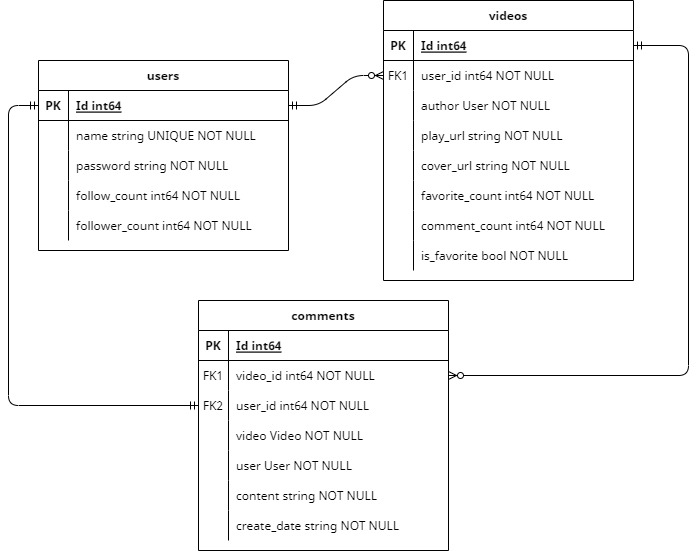
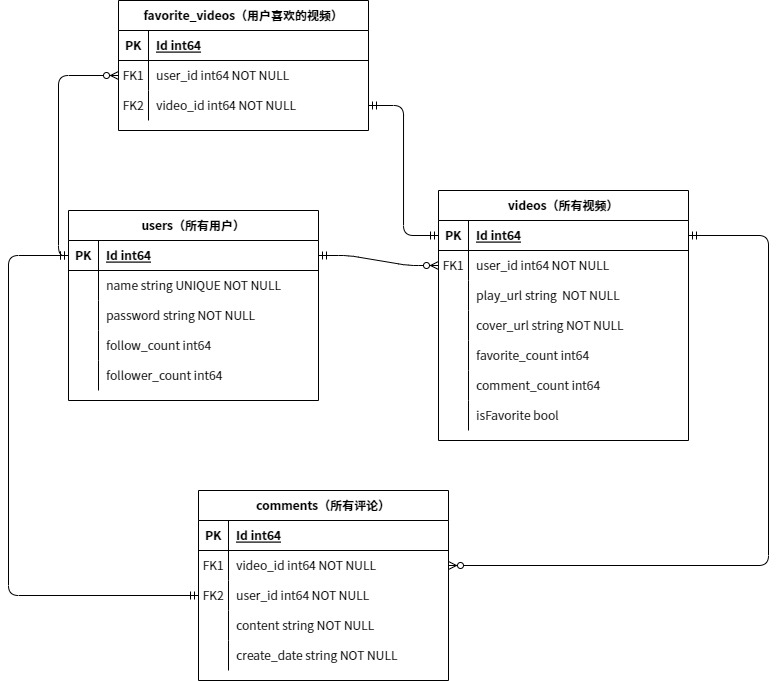
重新设置数据库；正在完善publish功能

diff --git a/controller/publish.go b/controller/publish.go
@@ -1,8 +1,13 @@
 package controller
 
 import (
+	"fmt"
 	"github.com/gin-gonic/gin"
+	"log"
 	"net/http"
+	"os/exec"
+	"path/filepath"
+	"strconv"
 )
 
 type VideoListResponse struct {
@@ -10,48 +15,78 @@ type VideoListResponse struct {
 	VideoList []Video `json:"video_list"`
 }
 
-// Publish check token then save upload file to public directory
+// Publish 前端传入视频、token
 func Publish(c *gin.Context) {
-	//token := c.PostForm("token")
-	//
-	//if _, exist := usersLoginInfo[token]; !exist {
-	//	c.JSON(http.StatusOK, Response{StatusCode: 1, StatusMsg: "User doesn't exist"})
-	//	return
-	//}
-	//
-	//data, err := c.FormFile("data")
-	//if err != nil {
-	//	c.JSON(http.StatusOK, Response{
-	//		StatusCode: 1,
-	//		StatusMsg:  err.Error(),
-	//	})
-	//	return
-	//}
-	//
-	//filename := filepath.Base(data.Filename)
-	//user := usersLoginInfo[token]
-	//finalName := fmt.Sprintf("%d_%s", user.Id, filename)
-	//saveFile := filepath.Join("./public/", finalName)
-	//if err := c.SaveUploadedFile(data, saveFile); err != nil {
-	//	c.JSON(http.StatusOK, Response{
-	//		StatusCode: 1,
-	//		StatusMsg:  err.Error(),
-	//	})
-	//	return
-	//}
-	//
-	//c.JSON(http.StatusOK, Response{
-	//	StatusCode: 0,
-	//	StatusMsg:  finalName + " uploaded successfully",
-	//})
+	username := c.PostForm("token") // 这里的 Token 是用户名
+	// demo 里检查了用户是否存在，个人感觉没必要
+
+	// 读取视频
+	data, err := c.FormFile("data")
+	if err != nil {
+		c.JSON(http.StatusOK, Response{
+			StatusCode: 1,
+			StatusMsg:  err.Error(),
+		})
+		return
+	}
+	filename := filepath.Base(data.Filename)
+
+	var user User // 根据用户名查找用户
+	DB.Where("name=?", username).First(&user)
+	// 因为存储的文件名需要包含 videoId，所以先保存到数据库，利用 Id 自增特性获取 videoId
+	// 相关信息存入数据库
+	playUrl := ServerAddr + "/static/videos/"
+	coverUrl := ServerAddr + "/static/covers/"
+	video := Video{
+		Author:   user,
+		UserId:   user.Id,
+		PlayUrl:  playUrl,
+		CoverUrl: coverUrl,
+	}
+	DB.Create(&video)
+	finalName := fmt.Sprintf("%d_%d_%s", user.Id, video.Id, filename) // 保存的文件名，为防止文件名冲突，增加一项 videoId
+	saveFile := filepath.Join("./public/videos/", finalName)
+	// 将视频存入本地
+	if err := c.SaveUploadedFile(data, saveFile); err != nil {
+		c.JSON(http.StatusOK, Response{
+			StatusCode: 1,
+			StatusMsg:  err.Error(),
+		})
+		return
+	}
+	c.JSON(http.StatusOK, Response{
+		StatusCode: 0,
+		StatusMsg:  finalName + " uploaded successfully",
+	})
+	// 调用 ffmpeg 获取封面（第一帧老是黑屏，所以这里获取第 300 帧）
+	// 当然更好的实践是先读取总共有多少帧，再获取中间的某一帧，这里为了简便实现就先这样了
+	cmd := exec.Command(
+		"ffmpeg", "-i", "./public/videos/"+finalName,
+		"-vf", "select=eq(n\\, 300)", "-frames", "1",
+		"./public/covers/"+finalName+".jpg",
+	)
+	//cmd.Stderr = os.Stderr // 输出错误信息
+	if err := cmd.Run(); err != nil {
+		log.Fatalln("Video cover generation failed")
+	}
+	// 更新数据库中的视频和封面链接
+	video.PlayUrl += finalName
+	video.CoverUrl += finalName + ".jpg"
+	DB.Save(&video)
+
 }
 
-// PublishList all users have same publish video list
+// PublishList 显示当前用户投稿的所有视频，目前的实现方式是直接从所有视频的表里根据 user_id 选取
+// 效率可能较低？
 func PublishList(c *gin.Context) {
+	userIdStr := c.Query("user_id")
+	userId, _ := strconv.ParseInt(userIdStr, 10, 64)
+	var videoList []Video
+	DB.Where("user_id=?", userId).Find(&videoList)
 	c.JSON(http.StatusOK, VideoListResponse{
 		Response: Response{
 			StatusCode: 0,
 		},
-		VideoList: DemoVideos,
+		VideoList: videoList,
 	})
 }

diff --git a/controller/user.go b/controller/user.go
@@ -6,7 +6,6 @@ import (
 	"golang.org/x/crypto/bcrypt"
 	"net/http"
 	"strconv"
-	"sync/atomic"
 )
 
 //// usersLoginInfo use map to store user info, and key is username+password for demo
@@ -46,23 +45,21 @@ func Register(c *gin.Context) {
 
 	passwordHash, _ := BCryptPassword(password) // 对密码加密，不保存明文
 	// 根据用户名的唯一性，查找是否存在该用户，如果不存在则将用户信息存入数据库中
-	findUser := User{Name: username}
-	if rowsAffected := DB.Where("name = ?", username).First(&findUser).RowsAffected; rowsAffected != 0 {
+	var user User
+	if rowsAffected := DB.Where("name = ?", username).First(&user).RowsAffected; rowsAffected != 0 {
 		c.JSON(http.StatusOK, UserLoginResponse{
 			Response: Response{StatusCode: 1, StatusMsg: "User already exists"},
 		})
 	} else {
-		atomic.AddInt64(&userIdSequence, 1)
 		newUser := User{
-			Id:       userIdSequence,
 			Name:     username,
 			Password: passwordHash,
 		}
 		DB.Create(&newUser) // 存入数据库
 		c.JSON(http.StatusOK, UserLoginResponse{
 			Response: Response{StatusCode: 0},
-			UserId:   userIdSequence,
-			//Token:    username + passwordHash, // Token 没啥用
+			UserId:   newUser.Id,
+			Token:    username, // 由于各个接口都依靠 Token 确定用户身份，因此返回用户名
 		})
 	}
 }
@@ -72,9 +69,9 @@ func Login(c *gin.Context) {
 	password := c.Query("password")
 
 	// 查找数据库中对应的用户名，并检查密码
-	findUser := User{Name: username}
-	if rowsAffected := DB.Where("name = ?", username).First(&findUser).RowsAffected; rowsAffected != 0 {
-		passwordHashByte := []byte(findUser.Password)
+	var user User
+	if rowsAffected := DB.Where("name = ?", username).First(&user).RowsAffected; rowsAffected != 0 {
+		passwordHashByte := []byte(user.Password)
 		passwordByte := []byte(password)
 		// 检查密码是否正确，使用 BCrypt 内置的比较函数
 		if err := bcrypt.CompareHashAndPassword(passwordHashByte, passwordByte); errors.Is(err, bcrypt.ErrMismatchedHashAndPassword) {
@@ -85,8 +82,8 @@ func Login(c *gin.Context) {
 		} else { // 密码正确
 			c.JSON(http.StatusOK, UserLoginResponse{
 				Response: Response{StatusCode: 0},
-				UserId:   findUser.Id,
-				//Token:    username + findUser.Password, // Token 没啥用
+				UserId:   user.Id,
+				Token:    user.Name, // 由于各个接口都依靠 Token 确定用户身份，因此返回用户名
 			})
 		}
 	} else {
@@ -97,13 +94,13 @@ func Login(c *gin.Context) {
 }
 
 func UserInfo(c *gin.Context) {
-	userId := c.Query("user_id")
-	Id, _ := strconv.ParseInt(userId, 10, 64)
+	userIdStr := c.Query("user_id")
+	userId, _ := strconv.ParseInt(userIdStr, 10, 64)
 	// demo 这里判断了 user 是否存在，但个人认为不用，因此省去
-	findUser := User{Id: Id}
-	DB.First(&findUser)
+	user := User{Id: userId}
+	DB.First(&user)
 	c.JSON(http.StatusOK, UserResponse{
 		Response: Response{StatusCode: 0},
-		User:     findUser,
+		User:     user,
 	})
 }

diff --git a/controller/common.go b/controller/common.go
@@ -6,11 +6,11 @@ type Response struct {
 }
 
 type Video struct {
-	Id            int64  `json:"id,omitempty"`
+	Id            int64  `json:"id,omitempty" gorm:"primaryKey"`
 	Author        User   `json:"author" gorm:"foreignKey:UserId"`
-	UserId        int64  `gorm:"not null"` // 该视频作者的唯一标志
-	PlayUrl       string `json:"play_url" json:"play_url,omitempty"`
-	CoverUrl      string `json:"cover_url,omitempty"`
+	UserId        int64  `gorm:"not null"` // 视频对应的用户 Id
+	PlayUrl       string `json:"play_url" json:"play_url,omitempty" gorm:"not null"`
+	CoverUrl      string `json:"cover_url,omitempty" gorm:"not null"`
 	FavoriteCount int64  `json:"favorite_count,omitempty"`
 	CommentCount  int64  `json:"comment_count,omitempty"`
 	IsFavorite    bool   `json:"is_favorite,omitempty"`
@@ -19,11 +19,11 @@ type Video struct {
 type Comment struct {
 	Id         int64  `json:"id,omitempty" gorm:"primaryKey"`
 	User       User   `json:"user" gorm:"foreignKey:UserId"`
-	UserId     int64  `gorm:"not null"`           // 该评论作者的唯一标志
-	Video      Video  `gorm:"foreignKey:VideoId"` // 不知是否有必要？
-	VideoId    int64  `gorm:"not null"`           // 评论对应的视频 Id
-	Content    string `json:"content,omitempty"`
-	CreateDate string `json:"create_date,omitempty"`
+	UserId     int64  `gorm:"not null"` // 评论对应的用户 Id
+	Video      Video  `gorm:"foreignKey:VideoId"`
+	VideoId    int64  `gorm:"not null"` // 评论对应的视频 Id
+	Content    string `json:"content,omitempty" gorm:"not null"`
+	CreateDate string `json:"create_date,omitempty" gorm:"not null"`
 }
 
 type User struct {
@@ -32,5 +32,18 @@ type User struct {
 	Password      string `gorm:"not null"`
 	FollowCount   int64  `json:"follow_count,omitempty"`
 	FollowerCount int64  `json:"follower_count,omitempty"`
-	IsFollow      bool   `json:"is_follow,omitempty"` // 意义不明？是否应当另建 follows 表和 followers 表？
+	IsFollow      bool   `json:"is_follow,omitempty"`
+}
+
+// Favorite 记录用户点赞的视频
+type Favorite struct {
+	Id      int64 `gorm:"primaryKey"`
+	User    User  `gorm:"foreignKey:UserId"`
+	UserId  int64 `gorm:"not null"`
+	Video   Video `gorm:"foreignKey:VideoId"`
+	VideoId int64 `gorm:"not null"`
+}
+
+// Follow 用于维护用户关注关系，待之后完善
+type Follow struct {
 }

diff --git a/controller/connect_db.go b/controller/connect_db.go
@@ -1,7 +1,6 @@
 package controller
 
 import (
-	"errors"
 	"gorm.io/driver/mysql"
 	"gorm.io/gorm"
 	"log"
@@ -11,8 +10,9 @@ import (
 // 目前已完成用户信息表
 
 var DB *gorm.DB
-var userIdSequence int64
-var videoIdSequence int64
+
+//var userIdSequence int64
+//var videoIdSequence int64
 
 func ConnectDB() {
 	// 连接数据库
@@ -22,7 +22,7 @@ func ConnectDB() {
 	if err != nil {
 		log.Fatalln("Database connection failed")
 	}
-	// 创建 User, Video, Comment 表
+	// 创建 User, Video, Comment, Favorite 表
 	if err := DB.AutoMigrate(&User{}); err != nil {
 		log.Fatalln("User table creation failed")
 	}
@@ -32,17 +32,20 @@ func ConnectDB() {
 	if err := DB.AutoMigrate(&Comment{}); err != nil {
 		log.Fatalln("Comment table creation failed")
 	}
-	// 读取 User, Video 的最新 Id，如果表为空则 Id 从 1 开始
-	var lastUser User
-	var lastVideo Video
-	if err := DB.Last(&lastUser).Error; errors.Is(err, gorm.ErrRecordNotFound) {
-		userIdSequence = 0
-	} else {
-		userIdSequence = lastUser.Id
+	if err := DB.AutoMigrate(&Favorite{}); err != nil {
+		log.Fatalln("Favorite table creation failed")
 	}
-	if err := DB.Last(&lastVideo).Error; errors.Is(err, gorm.ErrRecordNotFound) {
-		videoIdSequence = 0
-	} else {
-		videoIdSequence = lastVideo.Id
-	}
+	//// 读取 User, Video 的最新 Id，如果表为空则 Id 从 1 开始
+	//var lastUser User
+	//var lastVideo Video
+	//if err := DB.Last(&lastUser).Error; errors.Is(err, gorm.ErrRecordNotFound) {
+	//	userIdSequence = 0
+	//} else {
+	//	userIdSequence = lastUser.Id
+	//}
+	//if err := DB.Last(&lastVideo).Error; errors.Is(err, gorm.ErrRecordNotFound) {
+	//	videoIdSequence = 0
+	//} else {
+	//	videoIdSequence = lastVideo.Id
+	//}
 }

diff --git a/controller/demo_data.go b/controller/demo_data.go
@@ -2,7 +2,7 @@ package controller
 
 var DemoVideos = []Video{
 	{
-		Id:            1,
+		Id:            0,
 		Author:        DemoUser,
 		PlayUrl:       ServerAddr + "/static/videos/bear.mp4", // 把 demo 的视频
 		CoverUrl:      ServerAddr + "/static/covers/bear.jpg", // 和封面换成了本地的
@@ -14,7 +14,7 @@ var DemoVideos = []Video{
 
 var DemoComments = []Comment{
 	{
-		Id:         1,
+		Id:         0,
 		User:       DemoUser,
 		Content:    "Test Comment",
 		CreateDate: "05-01",
@@ -22,7 +22,7 @@ var DemoComments = []Comment{
 }
 
 var DemoUser = User{
-	//Id:            1,
+	Id:            0,
 	Name:          "TestUser",
 	FollowCount:   0,
 	FollowerCount: 0,

diff --git a/README.md b/README.md
@@ -34,4 +34,8 @@ MySQL 端口：3306 (TCP)
 
 - 密码使用 BCrypt 加密，数据库保存的是加密后的密码
 - 每个用户的用户名唯一，作为数据库提取用户信息的判断依据
-- 用户 Id（以及视频 Id）的增长方式：程序运行时分配两个变量从数据库中分别读取用户和视频的最后一个 Id，新创建时 Id 依次增加
+- 用户 Id（以及视频 Id）的增长方式：~~程序运行时分配两个变量从数据库中分别读取用户和视频的最后一个 Id，新创建时 Id 依次增加~~，GORM 默认下可以使主键自增
+
+## 已知问题
+
+- ~~userIdSequence 和 videoIdSequence 在多线程的环境下有可能产生重复（也许可加 mutex 解决，但会影响效率）~~
